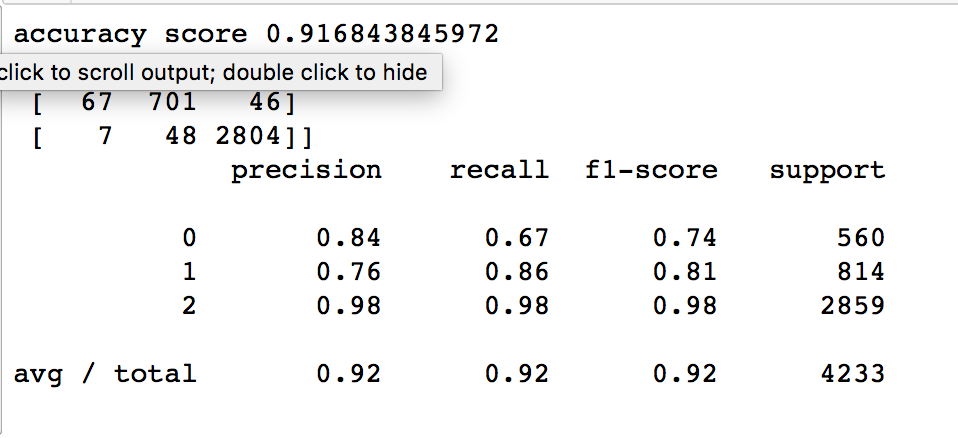
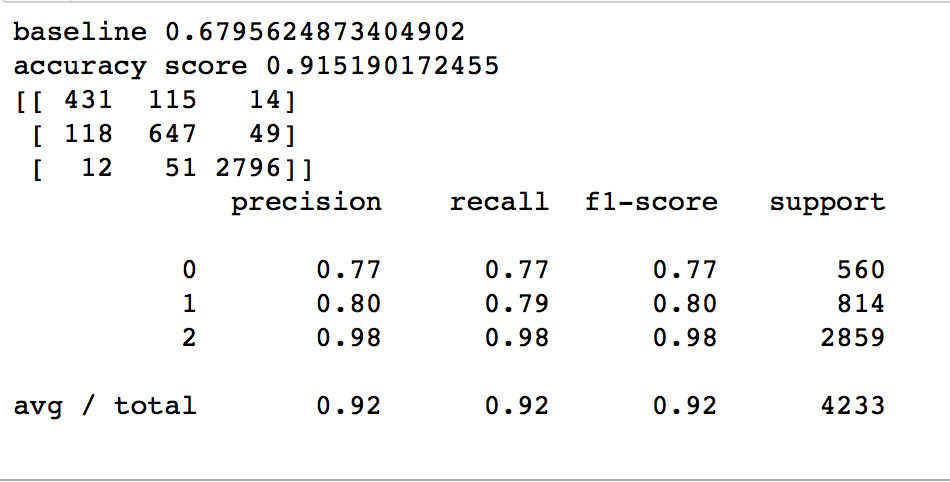
update

diff --git a/_posts/2017-12-01-Reddit.md b/_posts/2017-12-01-Reddit.md
@@ -40,7 +40,7 @@ The preprocessing is taken care of by a single function shown below. The TFIDFVe
 
 The Vectorized matrix is then concated to the binary variables and the Up Votes. This function then uses PCA (Principal Component Analysis) to combine and limit the features the Vectorizer outputs into 500 features. 
 
-There is no standarization because the columns more than 99% of the columns going into PCA are on the same scale already, and the outlier columns (Up Votes), are on a very similar scale. 
+There is no standardization because the columns more than 99% of the columns going into PCA are on the same scale already, and the outlier columns (Up Votes), are on a very similar scale. 
 
 ![an image alt text](/images/Reddit_images/NLP_function.png "NLP Function")
 
@@ -58,7 +58,7 @@ The cross validated accuracy score on the test data of 96.8% is weel above the b
 
 ### Programming
 
-The cross validated scroes on the test data for predicting Programming subreddits is lower than the Techsupprt model, additionaly the baseline is higher. The model preforms worse than Techsupport most likely because there are fewer observations that fall into the subreddit.
+The cross validated scores on the test data for predicting Programming subreddits is lower than the Techsupprt model, additionally the baseline is higher. The model preforms worse than Techsupport most likely because there are fewer observations that fall into the subreddit.
 
 ![an image alt text](/images/Reddit_images/Pro_Matrix.png "Programming Confusion Matrix")
 
@@ -71,6 +71,8 @@ The cross validated scroes on the test data for predicting Programming subreddit
 
 ## Neural Networks
 
+As a further step a neural network was created to predict all three top subreddits together. This baseline prediction for this the same as the baseline for predicting only Techsupport. The cross validated accuracy score of the model is 91.5%, well above the baseline.
 
+![an image alt text](/images/Reddit_images/All_net_Matrix.png "Neural Network Confusion Matrix")
 
 
